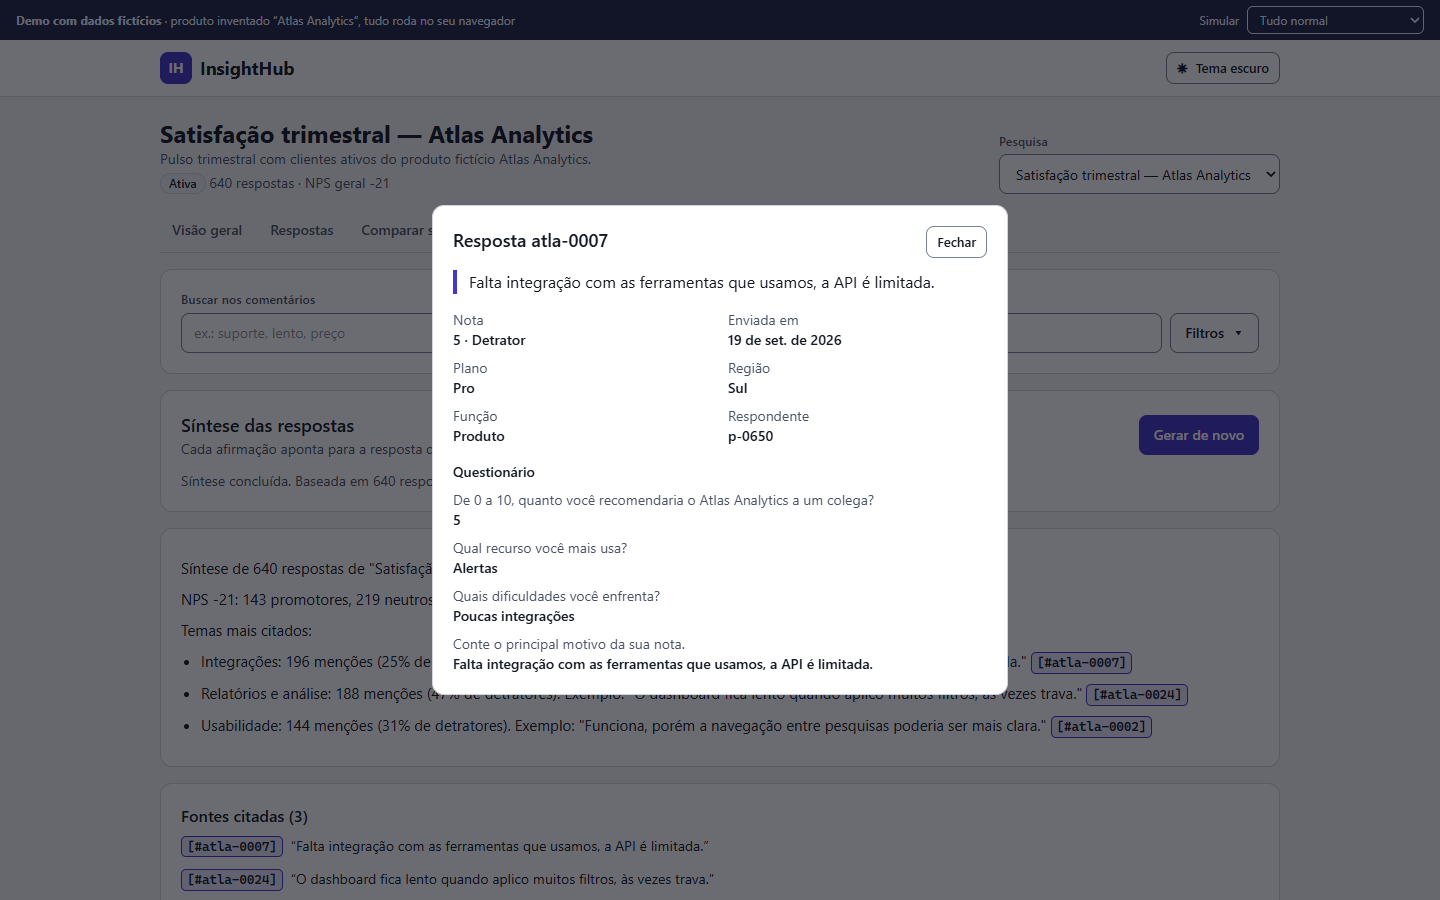
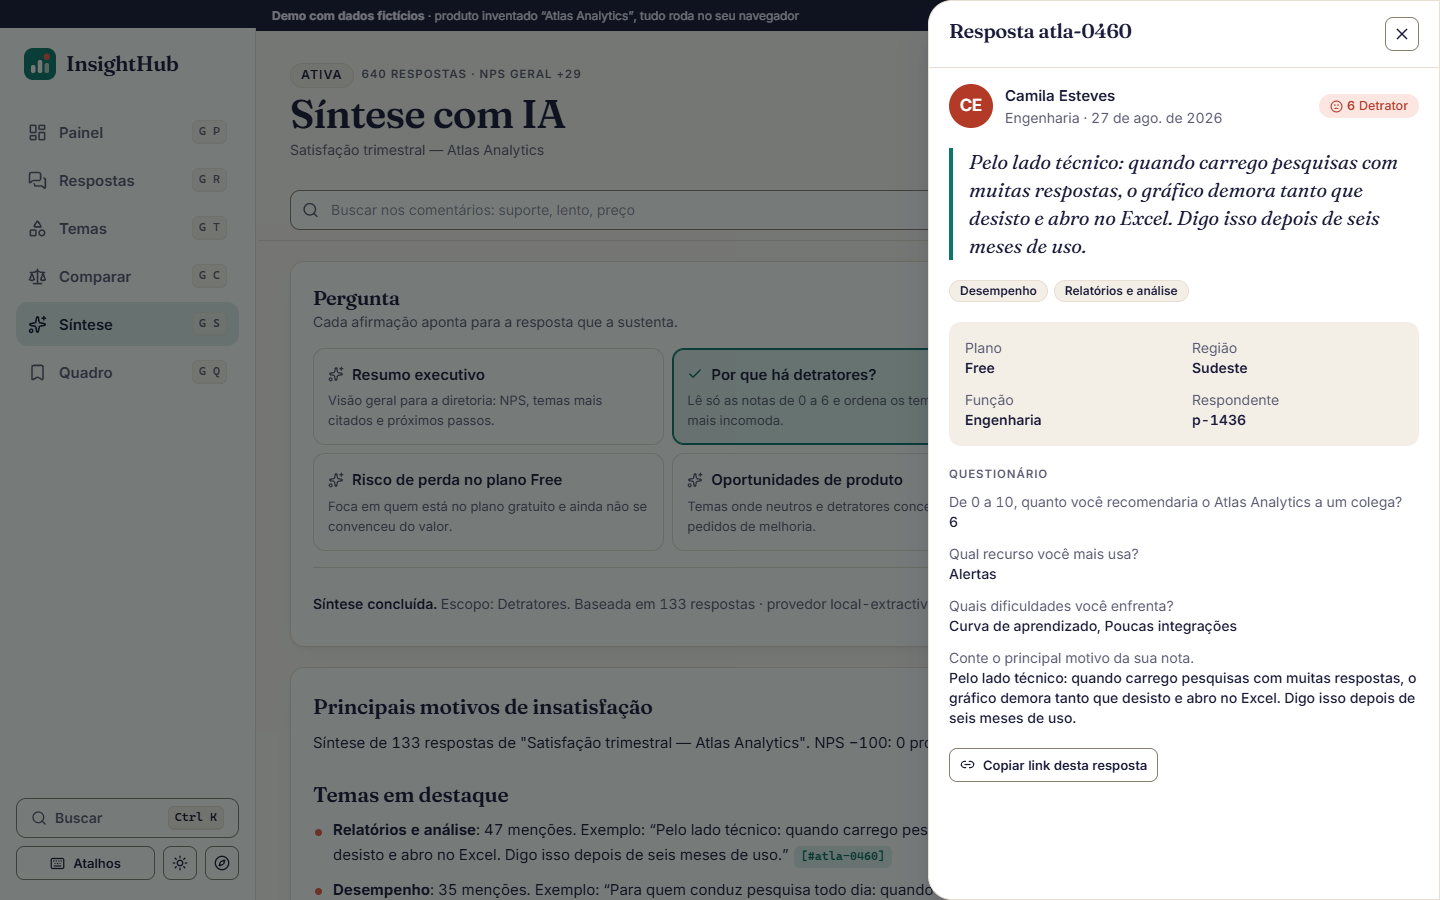
docs: rewrite README, add ADRs 0003 and 0004 and refresh the screenshots

diff --git a/README.md b/README.md
@@ -1,41 +1,63 @@
-# InsightHub · Research & AI Insights Workspace
+# InsightHub · da pesquisa à decisão
 
 [![CI](https://github.com/NasckDev/insighthub/actions/workflows/ci.yml/badge.svg)](https://github.com/NasckDev/insighthub/actions/workflows/ci.yml)
 ![TypeScript](https://img.shields.io/badge/TypeScript-strict-3178c6)
 ![Node](https://img.shields.io/badge/Node-%3E%3D22-339933)
 ![License](https://img.shields.io/badge/license-MIT-green)
 
-Workspace para explorar pesquisas, comparar segmentos e gerar sínteses assistidas por IA **com rastreabilidade**: toda afirmação da síntese aponta para o id da resposta que a sustenta.
+Workspace editorial para times de pesquisa e produto: ler o NPS, ouvir o que as pessoas dizem, comparar segmentos, pedir uma síntese **com fontes clicáveis** e guardar o que virou decisão. Toda afirmação da síntese aponta para o id da resposta que a sustenta.
 
-> Todos os dados são **100% fictícios** (seed determinístico com produto inventado "Atlas Analytics").
+> Todos os dados são **100% fictícios** (seed determinístico com o produto inventado "Atlas Analytics").
 
 ## Demo no navegador
 
-A interface roda **100% no navegador**, sem servidor: o mesmo `core` (NPS, filtros, comparação, síntese extrativa) processa o seed fictício localmente, com latência simulada. Demo publicada: <https://nasckdev.github.io/insighthub/>.
+A interface roda **100% no navegador**, sem servidor: o mesmo `core` (NPS, filtros, temas, comparação, síntese extrativa) processa o seed fictício localmente, com latência simulada. Demo publicada: <https://nasckdev.github.io/insighthub/>.
 
-| Visão geral: NPS, distribuição e evolução | Comparar segmentos com aviso de amostra pequena |
+| Painel: NPS em medidor, evolução, temas e falas | Comparar segmentos com aviso de amostra pequena |
 | --- | --- |
-| ![Visão geral da pesquisa no desktop](docs/prints/visao-geral-desktop.png) | ![Comparação de segmentos com aviso de amostra pequena](docs/prints/comparar-amostra-pequena-desktop.png) |
+| ![Painel da pesquisa no desktop](docs/prints/visao-geral-desktop.png) | ![Comparação de segmentos com barras divergentes e aviso de amostra pequena](docs/prints/comparar-amostra-pequena-desktop.png) |
 
-| Síntese com citação aberta | Celular (390 px) |
+| Síntese com a citação aberta ao lado | Celular (390 px) |
 | --- | --- |
-| ![Síntese com citação clicável abrindo a resposta-fonte](docs/prints/sintese-citacao-desktop.png) | ![Visão geral no celular](docs/prints/visao-geral-celular.png) ![Síntese no celular](docs/prints/sintese-celular.png) |
+| ![Síntese com citação clicável abrindo a resposta-fonte](docs/prints/sintese-citacao-desktop.png) | ![Painel no celular](docs/prints/visao-geral-celular.png) ![Síntese no celular](docs/prints/sintese-celular.png) |
 
-O que existe nas telas:
+| Mapa de temas com drill-down | Tema escuro | Quadro de insights |
+| --- | --- | --- |
+| ![Mapa de temas com o tema Suporte aberto](docs/prints/temas-desktop.png) | ![Painel no tema escuro](docs/prints/visao-geral-escuro-desktop.png) | ![Quadro com um insight salvo](docs/prints/quadro-desktop.png) |
 
-- **Visão geral**: NPS, distribuição das notas e evolução semanal. Cada gráfico tem uma alternativa em tabela com os mesmos dados.
-- **Respostas**: tabela paginada; filtros, busca e página ficam na URL (`#/s/s-atlas-q3/respostas?plan=pro,free&nps=detractor&page=2`) e são validados pelos schemas Zod do `core`. Valores inválidos na URL são descartados, não quebram a tela.
-- **Comparar segmentos**: por plano, região ou função, com aviso quando um segmento tem menos de 10 respostas.
-- **Síntese**: streaming simulado, botão **Cancelar** e citações `[#id]` clicáveis que abrem a resposta-fonte. Só ids confirmados pelo evento `citation` viram botão; o resto fica como texto.
-- **Estados**: carregando, vazio, erro com "Tentar de novo" e resultado parcial em todas as telas. O seletor **Simular** na faixa da demo força "falhar a próxima chamada" e "respostas parciais" para ver esses estados.
-- **Acessibilidade e UX**: tema claro/escuro, mobile-first (testado em 390 px), link "Pular para o conteúdo", foco visível, navegação por teclado, modal com foco preso e `Esc`, contraste AA e `prefers-reduced-motion`.
+Outros prints em [`docs/prints/`](docs/prints): respostas com facetas (`respostas-desktop.png`), temas no escuro (`temas-escuro-desktop.png`) e as telas de celular (`temas-celular.png`, `quadro-celular.png`, `visao-geral-escuro-celular.png`).
+
+## O que existe em cada tela
+
+- **Painel**: medidor de NPS com as quatro zonas de leitura, evolução semanal em área suave, distribuição das notas, temas principais com sentimento e **falas em destaque**. Filtros de período, plano, região, função, tema e busca vivem na URL (`#/s/s-atlas-q3/visao-geral?plan=pro&theme=suporte&from=2026-08-10`) e são validados pelos schemas Zod do `core`.
+- **Respostas**: tabela com **facetas e contagens ao vivo**, busca com o termo destacado, ordenação, paginação, tags de tema e sentimento, e **painel lateral de detalhe** (folha inferior no celular). No celular a tabela vira lista de cartões.
+- **Temas**: **treemap** em que a área é o volume e a cor/ícone é o sentimento. Clicar abre o drill-down com as falas, e dali você vai para a tabela filtrada ou pede a síntese só daquele tema.
+- **Comparar**: segmentos por plano, região ou função em **barras divergentes** contra o NPS geral, cartões lado a lado, destaque da maior diferença e **aviso de amostra pequena** (menos de 10 respostas): o segmento aparece listrado e com selo, nunca escondido.
+- **Síntese com IA**: cinco **modelos de pergunta** (resumo executivo, por que há detratores, o que os promotores valorizam, risco no plano Free, oportunidades), streaming com **cancelar** e **tentar de novo**, citações `[#id]` clicáveis que abrem a resposta e **salvar no quadro**.
+- **Quadro de insights**: cards com título e nota editáveis, exclusão com **desfazer**, exportação em **Markdown e CSV** e **link compartilhável** que outra pessoa pode importar.
+- **Em todo lugar**: paleta de comandos (`Ctrl/⌘ K`) com busca real nos comentários, atalhos documentados no modal `?` (`G` e uma letra para ir a cada tela, `/` para buscar, `T` para o tema), tour opcional de 3 passos, tema claro/escuro com a escolha lembrada, toasts, esqueletos com brilho e ilustrações próprias nos estados vazios e de erro.
+- **Estados**: carregando, vazio, erro com "Tentar de novo" e resultado parcial em todas as telas. O seletor **Simular** na faixa da demo força "falhar a próxima chamada" e "respostas parciais".
+
+## Identidade
+
+Fraunces nos títulos, nos números de destaque e nas falas dos clientes; Inter na interface. Papel `#FBF8F3`, tinta `#1B1B3A`, petróleo `#0F766E`, coral `#E8604C`, âmbar e ameixa de apoio; escuro com fundo `#0E1514`. Cantos de 10 a 14 px, linhas finas e sombras leves. As decisões estão no [ADR 0003](docs/adr/0003-identidade-editorial-e-graficos-proprios.md).
+
+## Acessibilidade
+
+Meta WCAG 2.2 AA, verificada com ferramenta e não por impressão:
+
+- **Contraste calculado nos dois temas**: `apps/web/src/lib/contrast.test.ts` lê os tokens de `styles.css` e confere 29 pares (4,5:1 para texto, 3:1 para gráficos e controles). Ele provou que o âmbar da marca falhava (2,4:1) e o gráfico passou a usar um tom mais escuro.
+- **axe-core sem violações** em todas as telas, nos dois temas, em 390, 768 e 1440 px, e no painel de detalhe e na paleta de comandos (E2E com `@axe-core/playwright`).
+- Teclado completo: link "Pular para o conteúdo", foco visível, modais com foco preso, `Esc` fecha e devolve o foco a quem abriu; gráficos focáveis que se percorrem com as setas.
+- Cor nunca é o único sinal (ícone e palavra em faixas e sentimentos), alvos de 44 px em dispositivos de toque, `safe-area-inset` respeitado, sem rolagem horizontal de 320 a 1440 px.
+- Todo gráfico tem descrição para leitor de tela e **alternativa em tabela**. Animações desligam com `prefers-reduced-motion`.
 
 ### Camada de dados
 
 A UI só conhece a interface `DataClient` (`apps/web/src/data/types.ts`), com dois adaptadores:
 
 - `demo` (padrão): roda o `core` no navegador sobre o seed, com latência e falhas simuláveis.
-- `http`: fala com a `apps/api` quando `VITE_API_URL` existe. Como a API não tem endpoints de agregação, a visão geral é calculada a partir das respostas paginadas.
+- `http`: fala com a `apps/api` quando `VITE_API_URL` existe. Como a API não tem endpoints de agregação, painel, temas e facetas são calculados a partir das respostas paginadas. A ordenação da tabela só existe no adaptador `demo`.
 
 ```bash
 npm run dev:mock -w @insighthub/web      # demo, mesmo que exista VITE_API_URL
@@ -52,17 +74,19 @@ npm run build:portable      # gera apps/web/dist e falha se o index.html tiver U
 
 Copie `apps/web/dist` para onde quiser (ex.: `<site>/projetos/insighthub/`) e sirva como arquivos estáticos. O workflow [`pages.yml`](.github/workflows/pages.yml) publica essa mesma pasta no GitHub Pages a cada push em `main` que toque o web ou o core.
 
-## Problema
+## Desempenho
 
-Times de pesquisa e produto precisam transformar respostas, segmentos e indicadores em insights acionáveis. A experiência costuma ser fragmentada entre filtros complexos, tabelas, gráficos, comentários e geração de sínteses — e sínteses de IA sem fonte não são confiáveis.
+Rotas carregadas sob demanda: cada tela é um chunk próprio. Tamanho do build portátil de `apps/web/dist` (gzip, medido no `vite build`):
 
-## Status
-
-| Parte | Estado |
+| Parte | gzip |
 | --- | --- |
-| `packages/core` — regras de domínio (NPS, filtros, comparação, retry, síntese extrativa, seed) | ✅ pronto, testado |
-| `apps/api` — Hono + Zod + Drizzle/libSQL, SSE com cancelamento, rate limit, CORS restrito | ✅ pronto, testado |
-| `apps/web` — React 19 + TanStack Router/Query + Tailwind 4 | ✅ pronto: demo estática no navegador, testada ([ver abaixo](#demo-no-navegador)) |
+| JavaScript inicial (React, roteador, query, motion e casca do app) | ≈ 199 kB (`index` 96,1 + vendor 92,9 + estados 9,9) |
+| CSS | 8,2 kB |
+| Tela do Painel (sob demanda) | 6,4 kB |
+| Síntese / Comparar / Quadro / Temas / Respostas (sob demanda) | 4,3 / 3,0 / 2,9 / 2,4 / 2,0 kB |
+| Fontes WOFF2 (latim, sem CDN) | Fraunces 36,6 kB, Fraunces itálico 45,7 kB, Inter 48,3 kB |
+
+`apps/web/dist` inteiro: 882 kB em disco, 22 arquivos.
 
 ## Arquitetura
 
@@ -70,7 +94,8 @@ Times de pesquisa e produto precisam transformar respostas, segmentos e indicado
 flowchart LR
   subgraph web[apps/web - React 19]
     R[TanStack Router<br/>filtros tipados na URL] --> Q[TanStack Query<br/>cache e invalidação]
-    S[Painel de síntese<br/>AbortController]
+    S[Síntese<br/>AbortController]
+    B[Quadro de insights<br/>localStorage + Zod]
   end
   subgraph api[apps/api - Hono]
     V[Zod na borda] --> REP[Repositório Drizzle]
@@ -87,7 +112,7 @@ flowchart LR
   api -.-> core
 ```
 
-`packages/core` concentra as regras puras e os **schemas Zod compartilhados**: o mesmo schema de filtros valida a query string na API e (na web) os search params da URL — uma única fonte de verdade.
+`packages/core` concentra as regras puras e os **schemas Zod compartilhados**: o mesmo schema de filtros valida a query string na API e os search params da URL na web. Também vivem ali a análise de temas e sentimento, as facetas, as falas em destaque, os modelos de pergunta da síntese, o treemap (`squarify`) e o domínio do quadro de insights (exportação Markdown/CSV e link compartilhável).
 
 ## Rodando localmente
 
@@ -98,13 +123,7 @@ npm install
 cp .env.example .env            # opcional
 npm run db:setup -w @insighthub/api   # cria o SQLite e aplica o seed fictício
 npm run start -w @insighthub/api      # http://localhost:3333
-```
-
-Testes e typecheck:
-
-```bash
-npm test          # Vitest em todos os workspaces
-npm run typecheck
+npm run dev:mock                      # só a interface, com dados no navegador
 ```
 
 ### Variáveis de ambiente
@@ -132,44 +151,57 @@ Todas as respostas JSON usam o envelope `{ success, data, error, meta }`.
 | GET | `/api/health` | Status e provider ativo |
 | GET | `/api/surveys` | Pesquisas com total de respostas e NPS |
 | GET | `/api/surveys/:id` | Pesquisa com perguntas (NPS, escolha única, múltipla, aberta) |
-| GET | `/api/surveys/:id/responses` | Respostas paginadas. Filtros: `plan`, `region`, `role` (listas por vírgula), `nps`, `q`, `page`, `pageSize` (≤ 100) |
+| GET | `/api/surveys/:id/responses` | Respostas paginadas. Filtros: `plan`, `region`, `role` (listas por vírgula), `nps`, `theme`, `from`, `to` (`AAAA-MM-DD`), `q`, `page`, `pageSize` (≤ 100) |
 | GET | `/api/surveys/:id/responses/:responseId` | Resposta-fonte (destino das citações) |
 | GET | `/api/surveys/:id/compare?dimension=plan\|region\|role` | NPS e distribuição por segmento, com flag de amostra pequena |
-| POST | `/api/surveys/:id/synthesis` | Síntese em **SSE** (`meta`, `delta`, `citation`, `done`, `error`). Corpo: `{ "filters": {...} }`. Com `INSIGHTHUB_API_TOKEN` definido exige `Authorization: Bearer <token>` (401 sem ele) |
+| POST | `/api/surveys/:id/synthesis` | Síntese em **SSE** (`meta`, `delta`, `citation`, `done`, `error`). Corpo: `{ "filters": {...}, "focus": "overview\|problems\|strengths\|opportunities" }`. Com `INSIGHTHUB_API_TOKEN` definido exige `Authorization: Bearer <token>` (401 sem ele) |
 
 Exemplo:
 
 ```bash
 curl "http://localhost:3333/api/surveys/s-atlas-q3/compare?dimension=plan&region=sul,sudeste"
 curl -N -X POST http://localhost:3333/api/surveys/s-atlas-q3/synthesis \
-  -H "content-type: application/json" -d '{"filters":{"plan":["free"]}}'
+  -H "content-type: application/json" -d '{"filters":{"plan":["free"]},"focus":"problems"}'
 ```
 
 ## Decisões
 
 - **Filtros persistidos na URL** para visões compartilháveis — o schema de filtros vive no `core` e é reutilizado na borda da API. ([ADR 0002](docs/adr/0002-filtros-na-url-e-schemas-compartilhados.md))
-- **`InsightProvider`** como contrato da síntese: provider local extrativo (frequências por tema + citação representativa com id da resposta) e provider Claude opcional. ([ADR 0001](docs/adr/0001-insight-provider-com-fallback-local.md))
-- **Rastreabilidade**: citações `[#id]` geradas pelo modelo são validadas contra o conjunto de fontes enviado; ids inexistentes são descartados e a citação usa o texto real da resposta, nunca o texto do modelo.
+- **`InsightProvider`** como contrato da síntese: provider local extrativo (temas, sentimento e citação representativa com id da resposta) e provider Claude opcional. ([ADR 0001](docs/adr/0001-insight-provider-com-fallback-local.md))
+- **Identidade editorial, contraste provado em teste e gráficos em SVG próprio.** ([ADR 0003](docs/adr/0003-identidade-editorial-e-graficos-proprios.md))
+- **Quadro de insights local, exportação segura e link compartilhável sem servidor.** ([ADR 0004](docs/adr/0004-quadro-de-insights-local-e-link-compartilhavel.md))
+- **Rastreabilidade**: citações `[#id]` geradas pelo modelo são validadas contra o conjunto de fontes enviado; ids inexistentes são descartados e a citação usa o texto real da resposta, nunca o texto do modelo. Na interface, só id confirmado por um evento `citation` vira botão.
 - **Cancelamento e retry**: o cancelamento do cliente aborta o stream (AbortController ponta a ponta); o retry com backoff exponencial só reexecuta erros transitórios (429, 5xx, conexão) e respeita o abort.
-- **Segurança**: o `POST /synthesis` exige token Bearer (comparação em tempo constante, checada antes do rate limit) e a API **não sobe** com `ANTHROPIC_API_KEY` sem `INSIGHTHUB_API_TOKEN`, para que ninguém dispare chamadas pagas. As rotas de leitura continuam abertas (dados fictícios). O token é segredo de servidor: o front estático **não** o embute (variáveis `VITE_*` vão para o bundle público), então a demo publicada usa o provider local. Além disso: validação Zod em toda entrada, ids com regex restrita, busca parametrizada com `instr()` (sem curingas de `LIKE`), CORS por lista de origens, `secureHeaders`, limite de corpo de 16 KB, rate limit por IP, comentários tratados como dados no prompt (mitigação de prompt injection).
+- **Segurança**: o `POST /synthesis` exige token Bearer (comparação em tempo constante, checada antes do rate limit) e a API **não sobe** com `ANTHROPIC_API_KEY` sem `INSIGHTHUB_API_TOKEN`, para que ninguém dispare chamadas pagas. O token é segredo de servidor: o front estático **não** o embute (variáveis `VITE_*` vão para o bundle público), então a demo publicada usa o provider local. Além disso: validação Zod em toda entrada (inclusive o link compartilhado do quadro), ids com regex restrita, busca parametrizada com `instr()`, CORS por lista de origens, `secureHeaders`, limite de corpo de 16 KB, rate limit por IP, comentários tratados como dados no prompt, texto de síntese renderizado como React (nunca HTML) e CSV com neutralização de fórmulas.
 
 ## Testes
 
-- `packages/core`: NPS, filtros/validação, comparação de segmentos, retry/backoff/abort, síntese extrativa e citações, seed determinístico.
-- `apps/api`: integração com `app.request()` sobre SQLite em memória — envelope, paginação, filtros, 400/404, SSE, CORS, 429, token Bearer (401/200) e exigência do token com o provider Claude.
-- `apps/web` (Vitest + Testing Library, app inteiro sobre história em memória): filtros e paginação na URL (inclusive valores inválidos), busca com debounce, estados de carregando/vazio/erro/parcial, aviso de amostra pequena, tabela alternativa dos gráficos, citações clicáveis que abrem a resposta-fonte, cancelamento do stream e stream interrompido.
+Números reais da última rodada (Vitest 5 e Playwright 1.65):
+
+| Camada | Arquivos | Testes | O que cobre |
+| --- | --- | --- | --- |
+| `packages/core` (unitários) | 7 | 53 | NPS, filtros (inclusive tema e período), facetas, temas e sentimento, falas em destaque, comparação com diferenças, retry/abort, síntese e modelos de pergunta, citações, treemap, domínio do quadro (Markdown, CSV seguro, link), seed |
+| `apps/api` (integração) | 1 | 16 | Envelope, paginação, filtros, 400/404, SSE, CORS, 429, token Bearer |
+| `apps/web` unitários | 8 | 83 | 59 pares de contraste nos dois temas, curva monotônica, zonas do NPS, formatação pt-BR, descrição de filtros, parâmetros da URL, store do quadro, pessoas fictícias |
+| `apps/web` componente (app inteiro sobre a história em memória) | 3 | 32 | Filtros e paginação na URL, estados de carregando/vazio/erro/parcial, tabela alternativa, aviso de amostra pequena, mapa de temas com drill-down, facetas, modelos de pergunta, síntese com citação, cancelar e stream interrompido, quadro (salvar, editar, excluir e desfazer, importar link), paleta de comandos e atalhos |
+| `apps/web` E2E (Playwright + axe) | 1 | 19 | axe sem violações nas 6 telas × 2 temas, painel, filtrar, abrir resposta com foco devolvido, gerar síntese e salvar no quadro, recarregar numa rota interna sem erro de console nem 404, paleta, celular a 360 px sem rolagem horizontal |
+
+Total: **184 testes em Vitest** (53 + 16 + 83 + 32) e **19 E2E**, todos passando. Lint, typecheck e build portátil limpos.
 
 ```bash
 npm run lint && npm run typecheck && npm test && npm run build:portable
+npm run e2e        # Playwright + axe contra o build portátil servido em /projetos/insighthub/
 ```
 
 ## Roadmap
 
-- [x] `apps/web`: filtros na URL (TanStack Router), comparação, síntese em streaming com cancelar e citações clicáveis, gráficos com tabela alternativa.
+- [x] Filtros na URL, comparação, síntese em streaming com cancelar e citações clicáveis, gráficos com tabela alternativa.
 - [x] Deploy do front com dados mock no GitHub Pages.
-- [ ] Playwright + `@axe-core/playwright` nos fluxos principais.
-- [ ] Painel lateral redimensionável por teclado.
-- [ ] Endpoints de agregação na API (hoje a visão geral do adaptador `http` agrega no cliente).
+- [x] Identidade editorial, temas com treemap, quadro de insights, paleta de comandos, atalhos e tour.
+- [x] Playwright + `@axe-core/playwright` nos fluxos principais.
+- [ ] Endpoints de agregação na API (hoje painel, temas e facetas do adaptador `http` agregam no cliente).
+- [ ] Persistir o quadro no servidor e compartilhar por id curto.
+- [ ] Ordenação da tabela de respostas na API.
 - [ ] OpenAPI.
 
 ## Licença

diff --git a/docs/adr/0003-identidade-editorial-e-graficos-proprios.md b/docs/adr/0003-identidade-editorial-e-graficos-proprios.md
@@ -1,0 +1,22 @@
+# ADR 0003 — Identidade editorial e gráficos em SVG próprio
+
+- Status: aceito
+- Data: 2026-11-19
+
+## Contexto
+
+A primeira versão da interface parecia um tutorial: tipografia do sistema, paleta genérica, cards iguais e gráficos mínimos. O produto precisa ter identidade própria ("uma revista de dados, não um painel genérico"), contraste AA provado nos dois temas e carga leve.
+
+## Decisão
+
+- **Tipografia auto-hospedada**: Fraunces (variável, só o subconjunto latino, normal e itálico) nos títulos, números de destaque e falas dos clientes; Inter variável na interface. Declaradas com `@font-face` apontando para os arquivos de `@fontsource-variable/*`, sem requisição externa.
+- **Paleta por tokens CSS**: papel `#FBF8F3`, tinta `#1B1B3A`, petróleo `#0F766E`, coral `#E8604C`, âmbar e ameixa de apoio; escuro com fundo `#0E1514`. Variações de texto (`--promoter`, `--passive`, `--detractor`) são mais escuras que as de preenchimento (`--*-bar`), porque coral e âmbar puros não chegam a 4,5:1 como texto.
+- **Contraste calculado, não presumido**: `src/lib/contrast.test.ts` lê `styles.css` e verifica 29 pares de tokens nos dois temas (4,5:1 para texto, 3:1 para gráficos e controles). Esse teste forçou o âmbar de gráfico a escurecer (`#B57C0C`), pois `#D99A1E` fica em 2,4:1 sobre branco.
+- **Gráficos em SVG/HTML próprios** em vez de uma biblioteca: medidor de NPS, área com curva monotônica (Fritsch-Carlson, sem picos inexistentes), barras de distribuição, barras divergentes e treemap squarified. Cada um desenha em pixels reais (sem distorcer texto), tem tooltip desenhado, navegação por setas, descrição textual e alternativa em tabela. O custo é escrever e testar a matemática (`curve.ts`, `squarify` no `core`); o ganho é bundle menor e controle total da acessibilidade.
+- **Movimento via `motion`** com `LazyMotion` e `MotionConfig reducedMotion="user"`; animações de CSS (gráficos que se desenham, shimmer) também desligam em `prefers-reduced-motion`.
+- **Cor nunca é o único sinal**: sentimento e faixas NPS têm ícone e palavra; segmentos de amostra pequena aparecem listrados e com selo.
+
+## Consequências
+
+- O JavaScript inicial fica em torno de 199 kB gzip (React, roteador, query e motion) mais 8 kB de CSS, com cada tela em um chunk próprio de 1 a 10 kB gzip carregado sob demanda.
+- Trocar a paleta exige rodar o teste de contraste, que aponta o par que falhou.

diff --git a/docs/adr/0004-quadro-de-insights-local-e-link-compartilhavel.md b/docs/adr/0004-quadro-de-insights-local-e-link-compartilhavel.md
@@ -1,0 +1,21 @@
+# ADR 0004 — Quadro de insights local e link compartilhável
+
+- Status: aceito
+- Data: 2026-11-19
+
+## Contexto
+
+A síntese gera texto com fontes, mas o valor de verdade está em guardar o que virou decisão, anotar e exportar. A demo roda sem servidor, então o quadro precisa funcionar só no navegador.
+
+## Decisão
+
+- O domínio do quadro (`packages/core/src/insights.ts`) é puro e testado: criar, editar, remover, mesclar, exportar para Markdown e CSV, codificar e decodificar o link.
+- A persistência fica em `localStorage`, atrás de um store pequeno (`apps/web/src/lib/board-store.ts`) lido com `useSyncExternalStore`. Toda leitura passa pelo schema Zod: entradas corrompidas ou editadas à mão são descartadas, nunca quebram a tela. Se o armazenamento estiver bloqueado, o quadro vive só em memória.
+- **Exclusão com desfazer** (toast com ação) em vez de diálogo de confirmação, para não interromper quem organiza muitos cards.
+- **CSV seguro**: toda célula é entre aspas e, se começar com `=`, `+`, `-`, `@` ou tabulação, ganha um apóstrofo, para que planilhas não executem fórmulas vindas de texto de cliente.
+- **Link compartilhável sem servidor**: o quadro vai codificado em base64url no parâmetro `share` do hash (`#/s/<id>/quadro?share=...`). Quem abre vê um aviso e escolhe "Importar para o meu quadro" ou "Descartar"; nada é gravado sem o clique. O token é limitado a 60 mil caracteres e validado com Zod; link adulterado mostra "Link de quadro inválido".
+
+## Consequências
+
+- Os insights ficam no navegador de quem os criou; limpar os dados do site apaga o quadro. O botão de exportar é o backup.
+- O link carrega o conteúdo, então é longo para quadros grandes. Com um backend, o mesmo domínio passaria a gravar o quadro e o link carregaria só um id.
